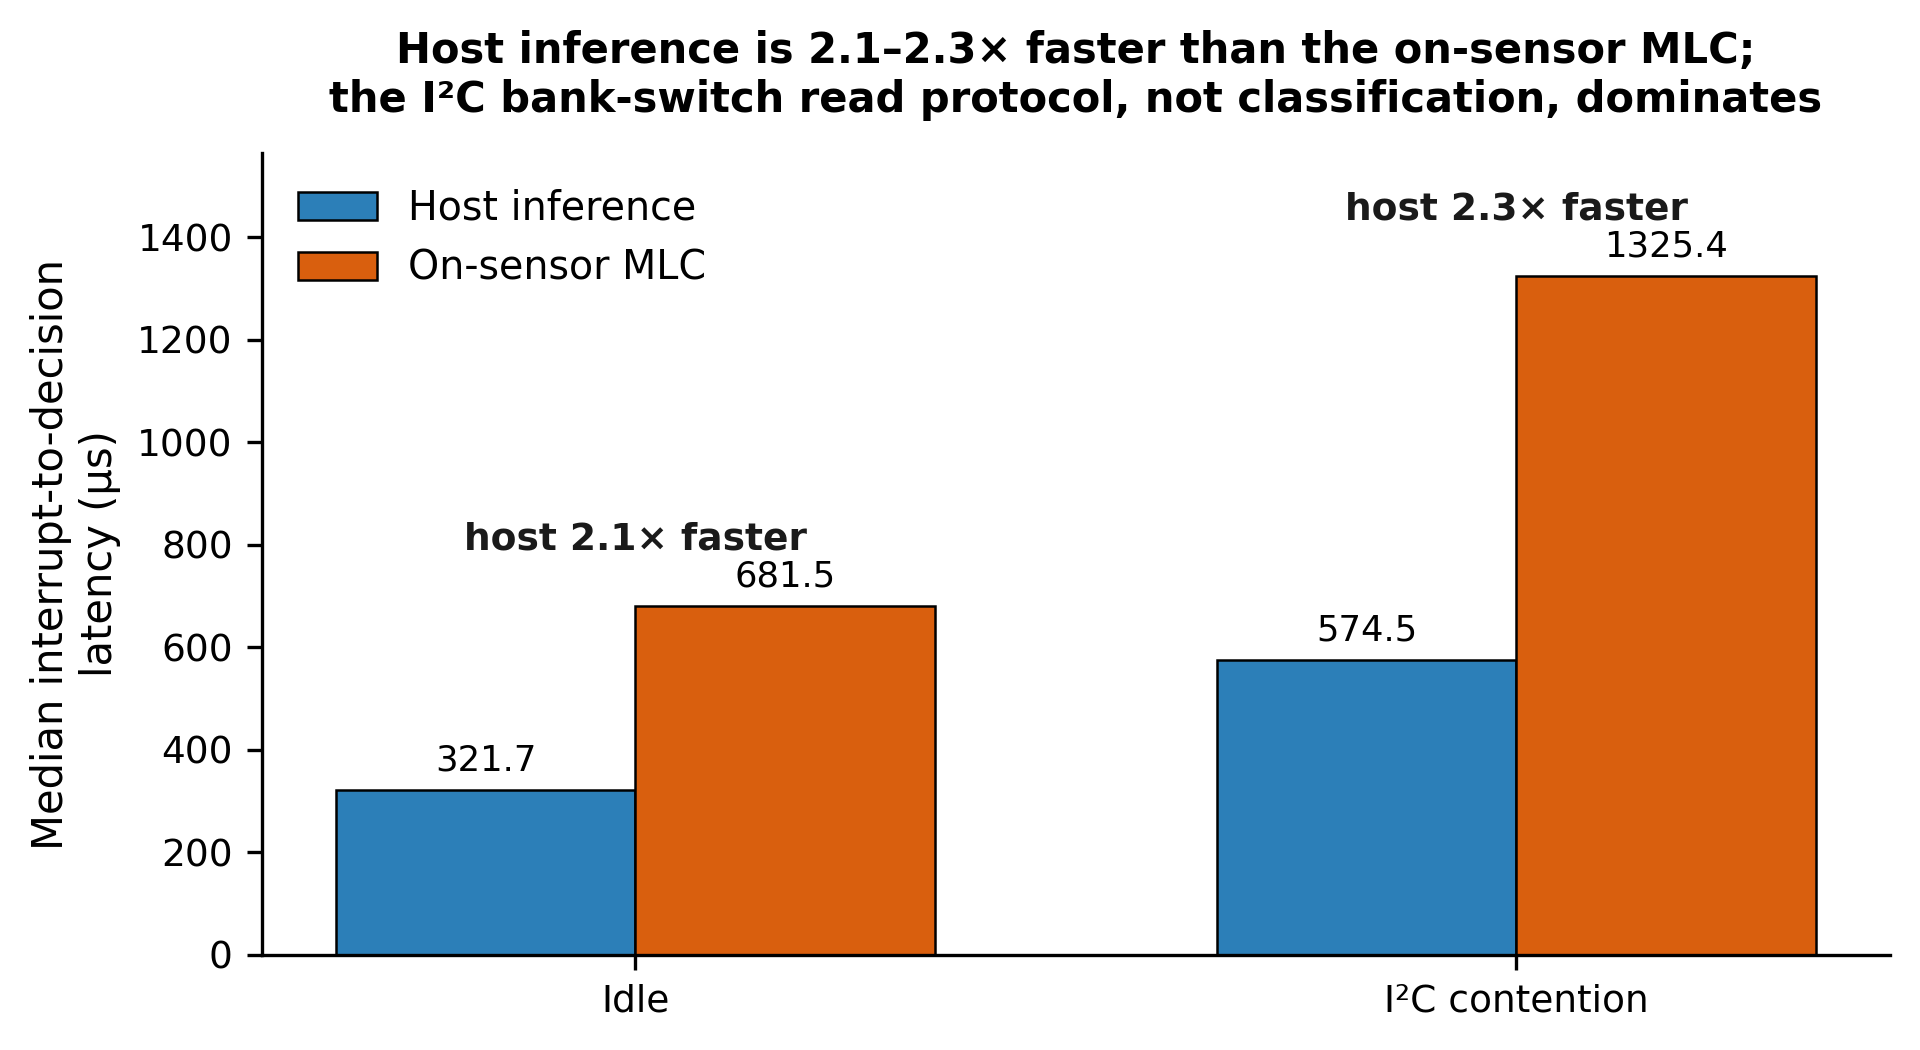
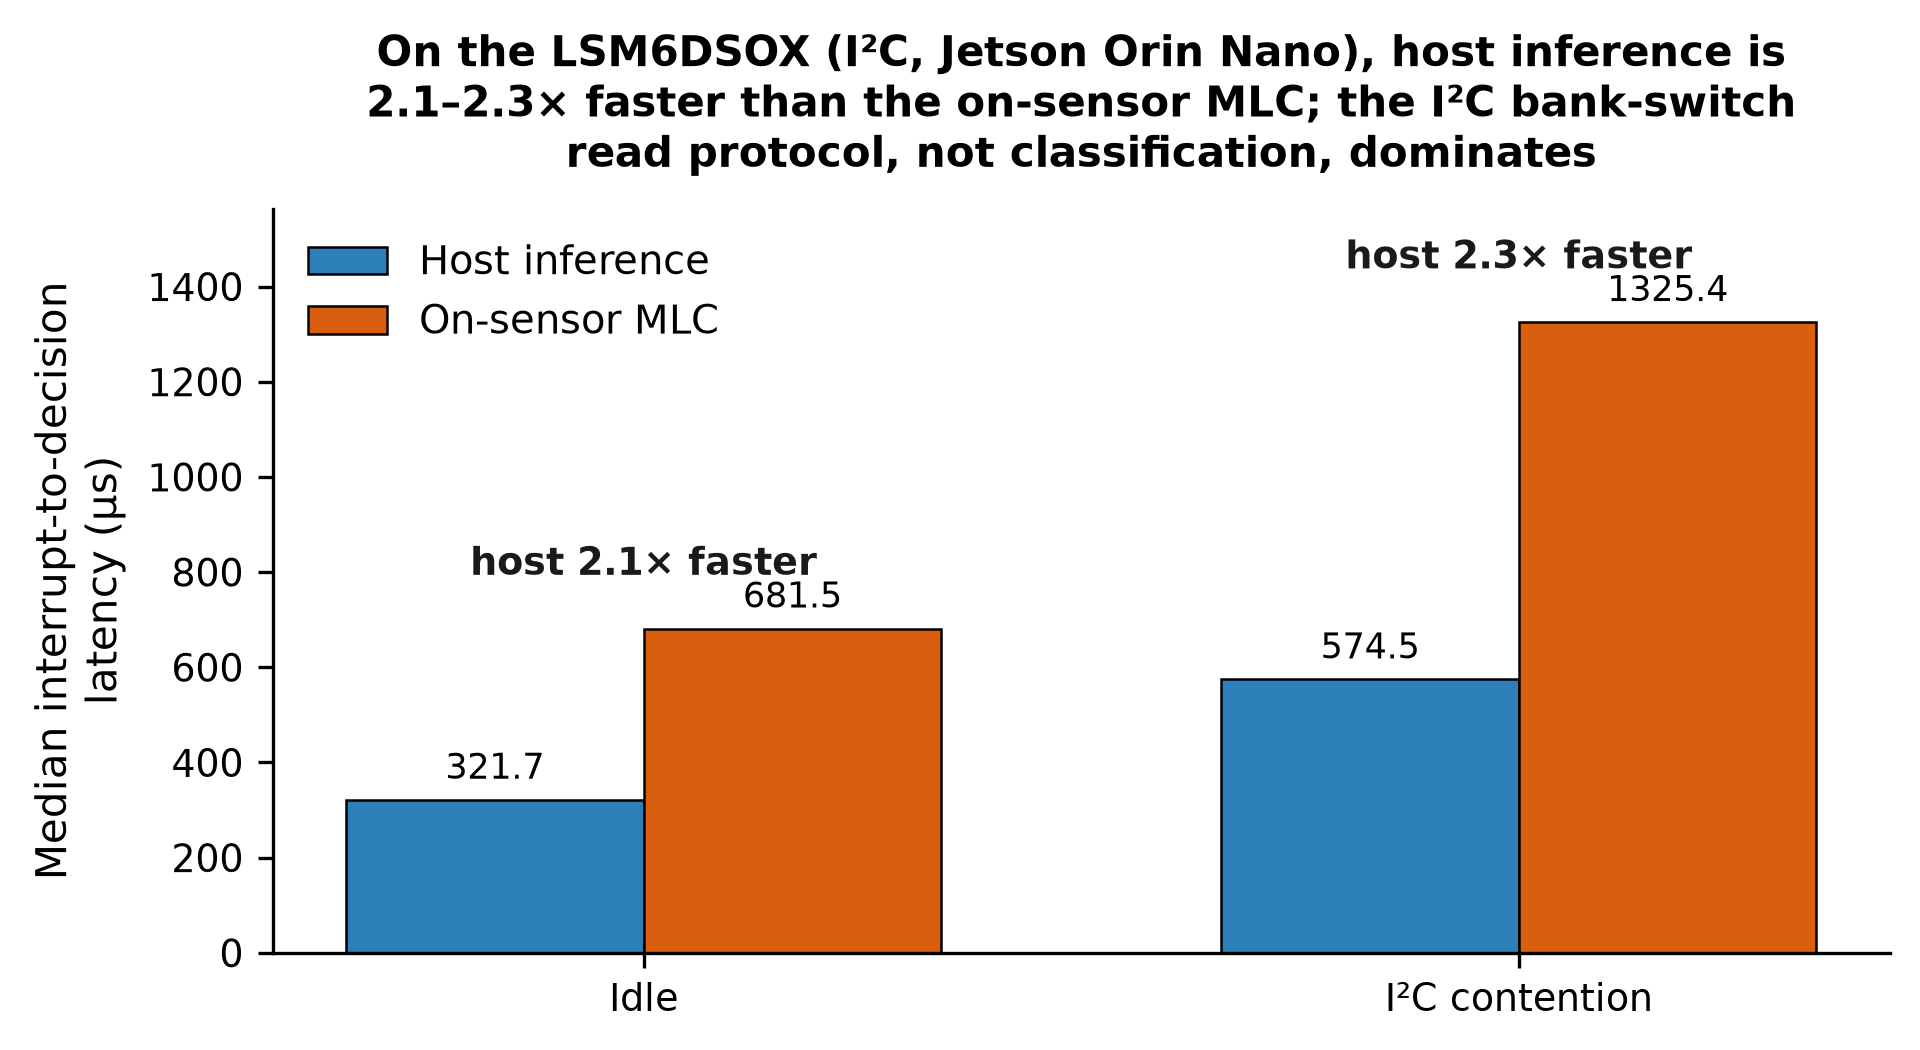
fix: scope graphical abstract headline to LSM6DSOX/I2C/Jetson Orin Nano, per R2 generalization comment

Changed region(s): [[0.0, 0.0305, 1.0, 0.9752]]

diff --git a/paper/letters/make_graphical_abstract.py b/paper/letters/make_graphical_abstract.py
@@ -27,8 +27,9 @@ for i, s in enumerate(speedup):
 ax.set_ylabel("Median interrupt-to-decision\nlatency (\u00b5s)", fontsize=10)
 ax.set_xticks(x); ax.set_xticklabels(conditions, fontsize=10); ax.set_ylim(0, ymax)
 ax.legend(frameon=False, fontsize=9.5, loc="upper left")
-ax.set_title("Host inference is 2.1\u20132.3\u00d7 faster than the on-sensor MLC;\n"
-             "the I\u00b2C bank-switch read protocol, not classification, dominates",
+ax.set_title("On the LSM6DSOX (I\u00b2C, Jetson Orin Nano), host inference is\n"
+             "2.1\u20132.3\u00d7 faster than the on-sensor MLC; the I\u00b2C bank-switch\n"
+             "read protocol, not classification, dominates",
              fontsize=10, fontweight="bold", pad=10)
 ax.spines["top"].set_visible(False); ax.spines["right"].set_visible(False)
 ax.tick_params(axis="both", labelsize=9)
